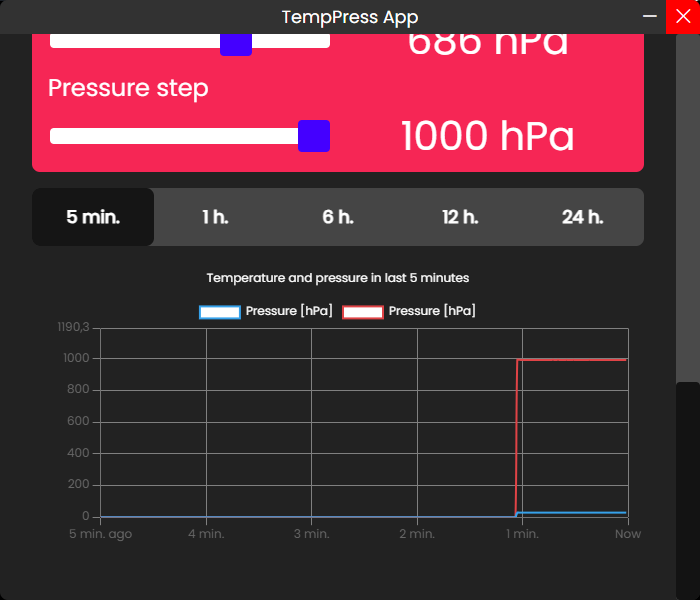
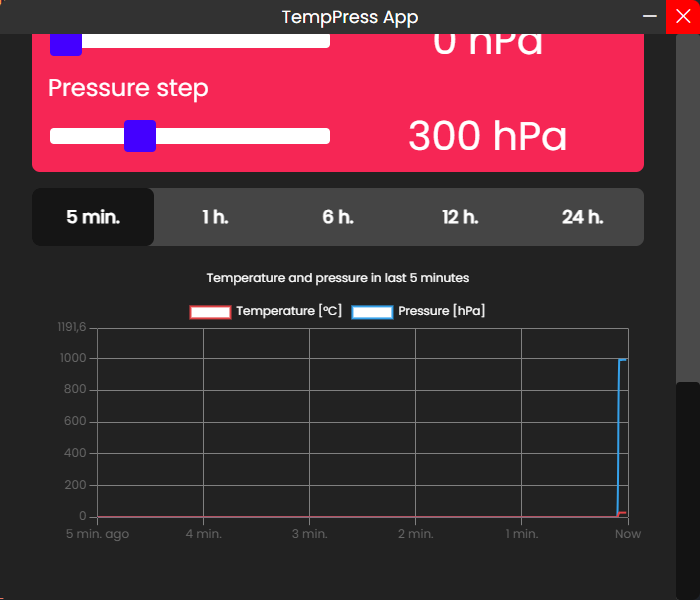
App, README.md and the web worker final fixes

diff --git a/app/renderer.js b/app/renderer.js
@@ -13,9 +13,9 @@ function initTopBar()
         window.app.minimize()
     })
 
-    document.querySelector('#closeAppBtn').addEventListener('click', () => 
+    document.querySelector('#closeAppBtn').addEventListener('click', async () => 
     {
-        window.connecting.close()
+        // await window.connecting.close()
         window.app.close()
     })
 }
@@ -210,7 +210,7 @@ function initTempChart()
         datasets: 
         [{
             label: 'Temperature [°C]',
-            borderColor: '#36A2EB',
+            borderColor: '#e04346',
             data: null,
             borderWidth: 2,
             tension: 0.4,
@@ -219,7 +219,7 @@ function initTempChart()
         },
         {
             label: 'Pressure [hPa]',
-            borderColor: '#e04346',
+            borderColor: '#36A2EB',
             data: null,
             borderWidth: 2,
             tension: 0.4,
@@ -489,7 +489,7 @@ async function loadLang(lang)
                     tempPressChart.data.datasets[0].label = result['content'][i][2]
                     break;
                 case 1:
-                    tempPressChart.data.datasets[0].label = result['content'][i][2]
+                    tempPressChart.data.datasets[1].label = result['content'][i][2]
                     break;
             }
         }
@@ -693,6 +693,7 @@ function isItConnected()
     closeDialog('#connectingDialog')
     if(!firstConnection)
     {
+        chartWorker.postMessage({"reset": true});
         openDialog('#connectedDialog')
         setTimeout(() => {closeDialog('#connectedDialog')}, 1000)
         document.querySelector('#connectingPanel').addEventListener('animationend', (e) => 

diff --git a/app/main.js b/app/main.js
@@ -43,14 +43,18 @@ app.whenReady().then(() =>
         currentWindow.minimize()
     })
 
-    ipcMain.handle('app.close', () => 
+    ipcMain.handle('app.close', async () => 
     {
-        if (port && port.isOpen) 
+        if(parser)
         {
-            port.close();
+            await parser.removeAllListeners();
+            parser = null;
+        }
+        if (port && port.isOpen) 
+        { 
+            await port.close();
         }
         port = null;
-        mainWindow = null;
         app.quit()
     })
 
@@ -160,7 +164,6 @@ app.whenReady().then(() =>
             createWindow()
         }
     })
-    app.disableHardwareAcceleration();
 })
 
 app.on('window-all-closed', () => 

diff --git a/app/chartWorker.js b/app/chartWorker.js
@@ -12,6 +12,13 @@ let realMaxVal = 0
 
 onmessage = (e) => 
 {
+    if(e.data['reset'] == true)
+    {
+        temp = new Array(86_400).fill(0)
+        press = new Array(86_400).fill(0)
+        console.log("YEE")
+        return
+    }
     temp.push(e.data["temp"]);
     temp.shift()
     press.push(e.data["press"]);
